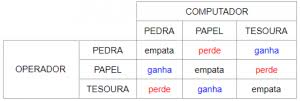
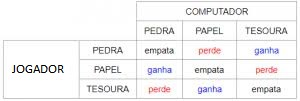
projeto prático - html css js

diff --git a/Readme.md b/Readme.md
@@ -16,7 +16,7 @@
 ![Youtube](/images/logo-youtube.png)
 ![VSCode](/images/logo-VSCode.png)
 
-#### Combinação
+#### Combinação do Jogador
 ![Jogo Pedra, Papel e Tesoura](/images/combinacao.jpeg)
 >@douglasabnovato
 
